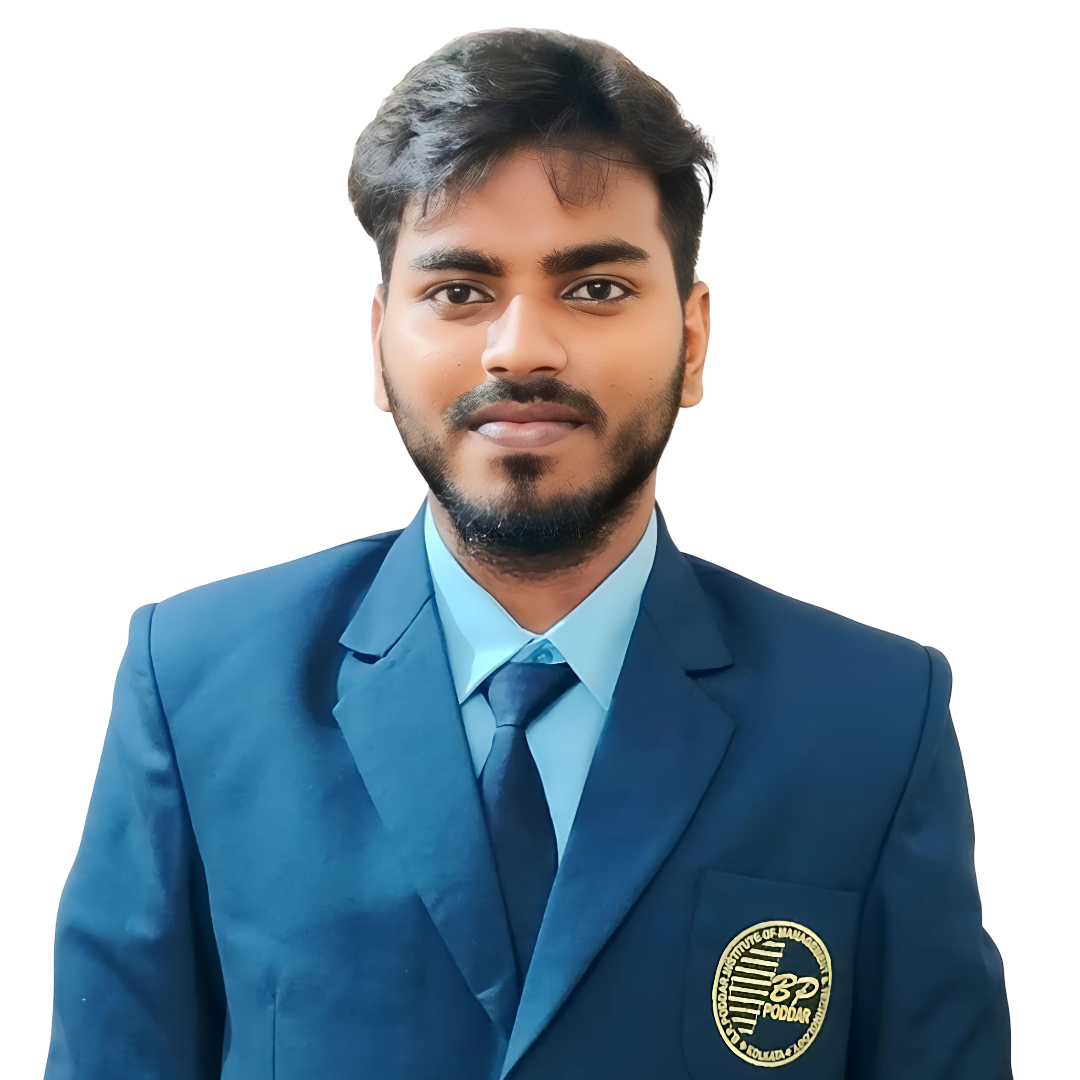
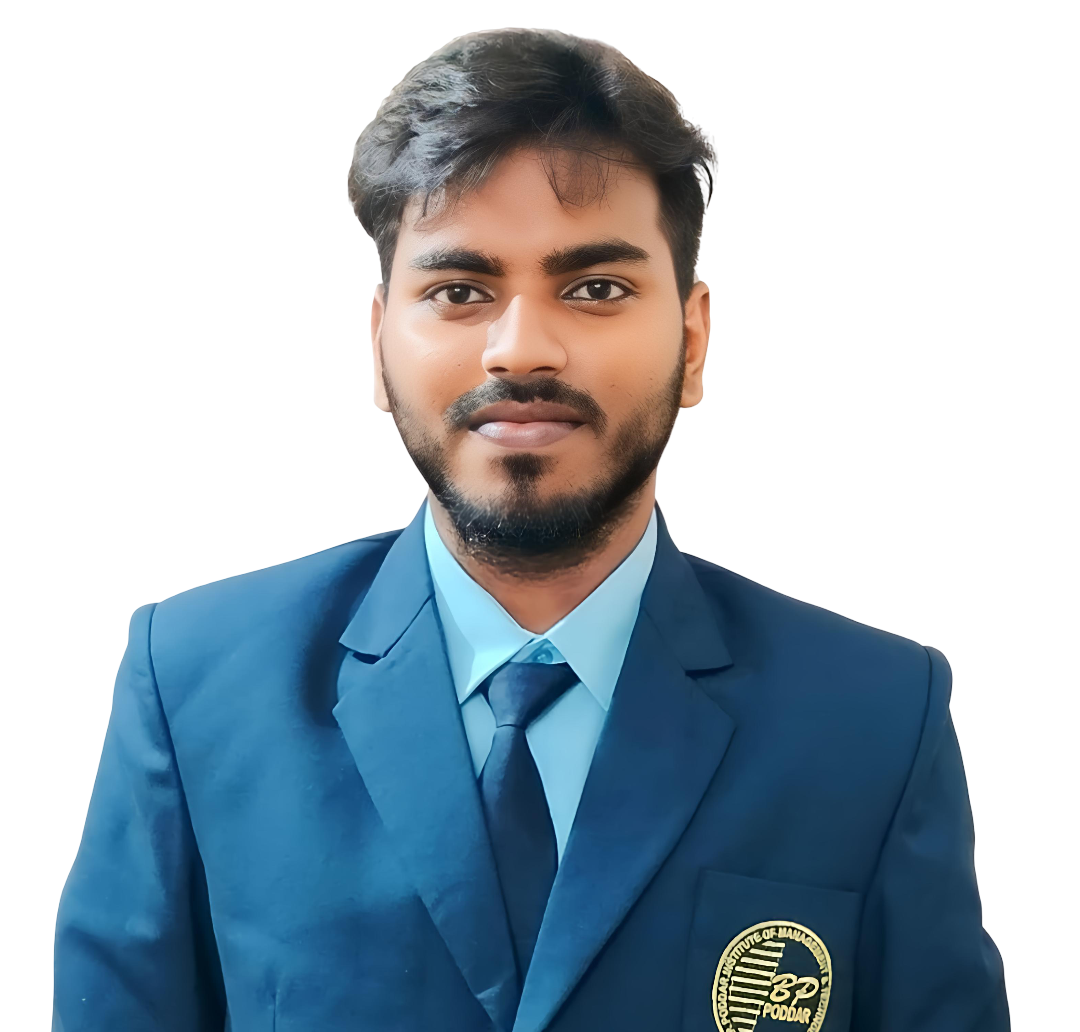
Major Fixes

diff --git a/src/components/Utilities/Team/ProfileCard.js b/src/components/Utilities/Team/ProfileCard.js
@@ -319,7 +319,7 @@ const ProfileCardComponent = ({
     handleDeviceOrientation,
   ]);
 
-  const cardRadius = "30px";
+  const cardRadius = "0px";
 
   const cardStyle = useMemo(
     () => ({
@@ -390,7 +390,8 @@ const ProfileCardComponent = ({
         " ",
       ),
     gridArea: "1 / -1",
-    borderRadius: cardRadius,
+    borderRadius: "0",
+    imageRendering: "pixelated",
     pointerEvents: "none",
   };
 
@@ -402,7 +403,8 @@ const ProfileCardComponent = ({
     filter: "brightness(0.8) contrast(1.2)",
     zIndex: 4,
     gridArea: "1 / -1",
-    borderRadius: cardRadius,
+    borderRadius: "0",
+    imageRendering: "pixelated",
     pointerEvents: "none",
   };
 
@@ -433,13 +435,26 @@ const ProfileCardComponent = ({
             height: "65svh",
             maxHeight: "420px",
             aspectRatio: "0.78",
-            borderRadius: cardRadius,
+            borderRadius: "0",
             backgroundBlendMode: "color-dodge, normal, normal, normal",
             boxShadow:
               "rgba(255, 140, 0, 0.4) calc((var(--pointer-from-left) * 10px) - 3px) calc((var(--pointer-from-top) * 20px) - 6px) 20px -5px, rgba(0, 0, 0, 0.6) calc((var(--pointer-from-left) * 10px) - 3px) calc((var(--pointer-from-top) * 20px) - 6px) 25px -3px",
             transition: "transform 1s ease",
             transform: "translateZ(0) rotateX(0deg) rotateY(0deg)",
             background: "rgba(40, 30, 15, 0.95)",
+            imageRendering: "pixelated",
+            clipPath: `polygon(
+              0 12px, 12px 12px, 12px 8px, 16px 8px, 16px 4px, 20px 4px, 20px 0,
+              calc(100% - 20px) 0, calc(100% - 20px) 4px, calc(100% - 16px) 4px,
+              calc(100% - 16px) 8px, calc(100% - 12px) 8px, calc(100% - 12px) 12px, 100% 12px,
+              100% calc(100% - 12px), calc(100% - 12px) calc(100% - 12px),
+              calc(100% - 12px) calc(100% - 8px), calc(100% - 16px) calc(100% - 8px),
+              calc(100% - 16px) calc(100% - 4px), calc(100% - 20px) calc(100% - 4px),
+              calc(100% - 20px) 100%, 20px 100%,
+              20px calc(100% - 4px), 16px calc(100% - 4px), 16px calc(100% - 8px),
+              12px calc(100% - 8px), 12px calc(100% - 12px), 0 calc(100% - 12px)
+            )`,
+            border: "4px solid #ffc010",
           }}
           onMouseEnter={(e) => {
             e.currentTarget.style.transition = "none";
@@ -462,7 +477,19 @@ const ProfileCardComponent = ({
             style={{
               backgroundImage: "var(--inner-gradient)",
               backgroundColor: "rgba(40, 30, 15, 0.95)",
-              borderRadius: cardRadius,
+              borderRadius: "0",
+              imageRendering: "pixelated",
+              clipPath: `polygon(
+                0 10px, 10px 10px, 10px 6px, 14px 6px, 14px 3px, 17px 3px, 17px 0,
+                calc(100% - 17px) 0, calc(100% - 17px) 3px, calc(100% - 14px) 3px,
+                calc(100% - 14px) 6px, calc(100% - 10px) 6px, calc(100% - 10px) 10px, 100% 10px,
+                100% calc(100% - 10px), calc(100% - 10px) calc(100% - 10px),
+                calc(100% - 10px) calc(100% - 6px), calc(100% - 14px) calc(100% - 6px),
+                calc(100% - 14px) calc(100% - 3px), calc(100% - 17px) calc(100% - 3px),
+                calc(100% - 17px) 100%, 17px 100%,
+                17px calc(100% - 3px), 14px calc(100% - 3px), 14px calc(100% - 6px),
+                10px calc(100% - 6px), 10px calc(100% - 10px), 0 calc(100% - 10px)
+              )`,
             }}
           >
             <div style={shineStyle} />
@@ -476,8 +503,19 @@ const ProfileCardComponent = ({
                   transformOrigin: "50% 100%",
                   transform:
                     "translateX(calc(-50% + (var(--pointer-from-left) - 0.5) * 6px)) translateZ(0) scaleY(calc(1 + (var(--pointer-from-top) - 0.5) * 0.02)) scaleX(calc(1 + (var(--pointer-from-left) - 0.5) * 0.01))",
-                  borderRadius: cardRadius,
+                  borderRadius: "0",
+                  imageRendering: "pixelated",
                   filter: "sepia(0.3) saturate(1.3) brightness(1.05) contrast(1.05)",
+                  clipPath: `polygon(
+                    0 8px, 8px 8px, 8px 4px, 12px 4px, 12px 0,
+                    calc(100% - 12px) 0, calc(100% - 12px) 4px, calc(100% - 8px) 4px,
+                    calc(100% - 8px) 8px, 100% 8px,
+                    100% calc(100% - 8px), calc(100% - 8px) calc(100% - 8px),
+                    calc(100% - 8px) calc(100% - 4px), calc(100% - 12px) calc(100% - 4px),
+                    calc(100% - 12px) 100%, 12px 100%,
+                    12px calc(100% - 4px), 8px calc(100% - 4px), 8px calc(100% - 8px),
+                    0 calc(100% - 8px)
+                  )`,
                 }}
                 onError={(e) => {
                   const t = e.target;

diff --git a/src/components/Pages/EventDetail/EventDetail.js b/src/components/Pages/EventDetail/EventDetail.js
@@ -18,14 +18,15 @@ function FAQAccordion({ faqs }) {
     <div
       style={{
         maxWidth: 900,
-        margin: "32px 32px 0 32px", // 32px left/right margin
-        padding: "24px 40px",
+        margin: "16px",
+        padding: "clamp(12px, 3vw, 24px) clamp(12px, 3vw, 40px)",
         
         background: "#1a0e22", // deep purple background (theme)
         boxShadow: "0 4px 32px 0 rgba(0,0,0,0.18)",
         fontFamily: "Press Start 2P, monospace",
         color: "#ffc010", // gold text (theme)
         border: "3px solid #ffc010",
+        boxSizing: "border-box",
       }}
     >
       {faqs.map((faq, idx) => (
@@ -40,19 +41,37 @@ function FAQAccordion({ faqs }) {
               border: "none",
               color: "#ffc010",
               fontFamily: "Press Start 2P, monospace",
-              fontSize: 15,
-              padding: "18px 5px 8px 0",
+              fontSize: "clamp(8px, 2vw, 15px)",
+              padding: "clamp(12px, 3vw, 18px) 5px 8px 0",
               cursor: "pointer",
               outline: "none",
               display: "flex",
-              alignItems: "center",
+              alignItems: "flex-start",
               justifyContent: "space-between",
-              letterSpacing: "1px",
+              letterSpacing: "0.5px",
               transition: "background 0.2s, color 0.2s",
+              lineHeight: "1.5",
+              gap: "clamp(8px, 2vw, 10px)",
+              boxSizing: "border-box",
             }}
           >
-            <span>{faq.q}</span>
-            <span style={{ fontSize: 18,fontWeight: "bold", marginLeft: 12 }}>
+            <span style={{ 
+              flex: 1, 
+              wordBreak: "break-word",
+              overflowWrap: "anywhere",
+              hyphens: "auto",
+              minWidth: 0,
+              whiteSpace: "normal",
+            }}>
+              {faq.q}
+            </span>
+            <span style={{ 
+              fontSize: "clamp(12px, 2.5vw, 18px)", 
+              fontWeight: "bold", 
+              flexShrink: 0,
+              minWidth: "clamp(16px, 4vw, 20px)",
+              textAlign: "center",
+            }}>
               {openIndex === idx ? "\u02C4" : "\u02C5"}
             </span>
           </button>
@@ -61,32 +80,34 @@ function FAQAccordion({ faqs }) {
               style={{
                 display: "flex",
                 alignItems: "stretch",
+                gap: "clamp(6px, 1.5vw, 12px)",
               }}
             >
               <div
                 style={{
-                  width: "4px",
-                  minWidth: "px",
+                  width: "clamp(3px, 1vw, 4px)",
+                  minWidth: "3px",
                   background: "#22c9e2",
-                  marginRight: "12px",
                   boxShadow: "0 0 8px 0 #18122B55",
+                  flexShrink: 0,
                 }}
               />
               <div
                 style={{
                   flex: 1,
-                  padding: "8px 0 18px 0",
+                  padding: "8px 0 clamp(12px, 3vw, 18px) 0",
                   color: "#ffffff",
-
-                  fontSize: 12,
-                  lineHeight: 1.7,
+                  fontSize: "clamp(8px, 1.8vw, 12px)",
+                  lineHeight: 1.6,
                   fontFamily: "Silkscreen, monospace",
                   marginLeft: 0,
                   marginBottom: 0,
-                  whiteSpace: "pre-line",
+                  whiteSpace: "pre-wrap",
+                  wordBreak: "break-word",
+                  overflowWrap: "anywhere",
                   borderRadius: "0 6px 6px 0",
-
                   borderLeft: "none",
+                  minWidth: 0,
                 }}
               >
                 {faq.a}

diff --git a/src/components/Utilities/Team/ProfileCard.css b/src/components/Utilities/Team/ProfileCard.css
@@ -16,7 +16,8 @@
   z-index: 0;
   pointer-events: none;
   transition: opacity 300ms ease-out;
-  border-radius: 30px;
+  border-radius: 0;
+  image-rendering: pixelated;
 }
 
 .profile-card-shell {
@@ -83,11 +84,22 @@
   left: var(--ui-inset);
   right: var(--ui-inset);
   background: rgba(20, 20, 42, 0.85);
-  border-radius: calc(max(0px, var(--card-radius) - var(--ui-inset) + var(--ui-radius-bias)));
+  border-radius: 0;
   padding: 10px 12px;
   box-shadow: 
     0 4px 12px rgba(0, 0, 0, 0.5),
     inset 0 1px 0 rgba(255, 192, 16, 0.2);
+  image-rendering: pixelated;
+  clip-path: polygon(
+    0 6px, 6px 6px, 6px 3px, 9px 3px, 9px 0,
+    calc(100% - 9px) 0, calc(100% - 9px) 3px, calc(100% - 6px) 3px,
+    calc(100% - 6px) 6px, 100% 6px,
+    100% calc(100% - 6px), calc(100% - 6px) calc(100% - 6px),
+    calc(100% - 6px) calc(100% - 3px), calc(100% - 9px) calc(100% - 3px),
+    calc(100% - 9px) 100%, 9px 100%,
+    9px calc(100% - 3px), 6px calc(100% - 3px), 6px calc(100% - 6px),
+    0 calc(100% - 6px)
+  );
 }
 
 .profile-card-user-details {
@@ -97,25 +109,34 @@
 }
 
 .profile-card-mini-avatar {
-  border-radius: 50%;
+  border-radius: 0;
   overflow: hidden;
   border: 2px solid rgba(255, 192, 16, 0.4);
   flex-shrink: 0;
   width: 40px;
   height: 40px;
   box-shadow: 0 0 8px rgba(255, 192, 16, 0.3);
+  image-rendering: pixelated;
+  clip-path: polygon(
+    0 4px, 4px 4px, 4px 0,
+    calc(100% - 4px) 0, calc(100% - 4px) 4px, 100% 4px,
+    100% calc(100% - 4px), calc(100% - 4px) calc(100% - 4px),
+    calc(100% - 4px) 100%, 4px 100%, 4px calc(100% - 4px),
+    0 calc(100% - 4px)
+  );
 }
 
 .profile-card-mini-avatar img {
   width: 100%;
   height: 100%;
   object-fit: cover;
-  border-radius: 50%;
+  border-radius: 0;
   display: block;
   position: static;
   left: auto;
   bottom: auto;
   transform: none;
+  image-rendering: pixelated;
 }
 
 .profile-card-user-text {
@@ -142,7 +163,7 @@
 
 .profile-card-contact-btn {
   border: 2px solid rgba(255, 192, 16, 0.4);
-  border-radius: 6px;
+  border-radius: 0;
   padding: 8px 14px;
   font-size: 0.7rem;
   font-weight: 700;
@@ -157,6 +178,14 @@
   box-shadow: 
     0 2px 8px rgba(255, 192, 16, 0.3),
     inset 0 1px 0 rgba(255, 255, 255, 0.2);
+  image-rendering: pixelated;
+  clip-path: polygon(
+    0 4px, 4px 4px, 4px 0,
+    calc(100% - 4px) 0, calc(100% - 4px) 4px, 100% 4px,
+    100% calc(100% - 4px), calc(100% - 4px) calc(100% - 4px),
+    calc(100% - 4px) 100%, 4px 100%, 4px calc(100% - 4px),
+    0 calc(100% - 4px)
+  );
 }
 
 .profile-card-contact-btn:hover {
